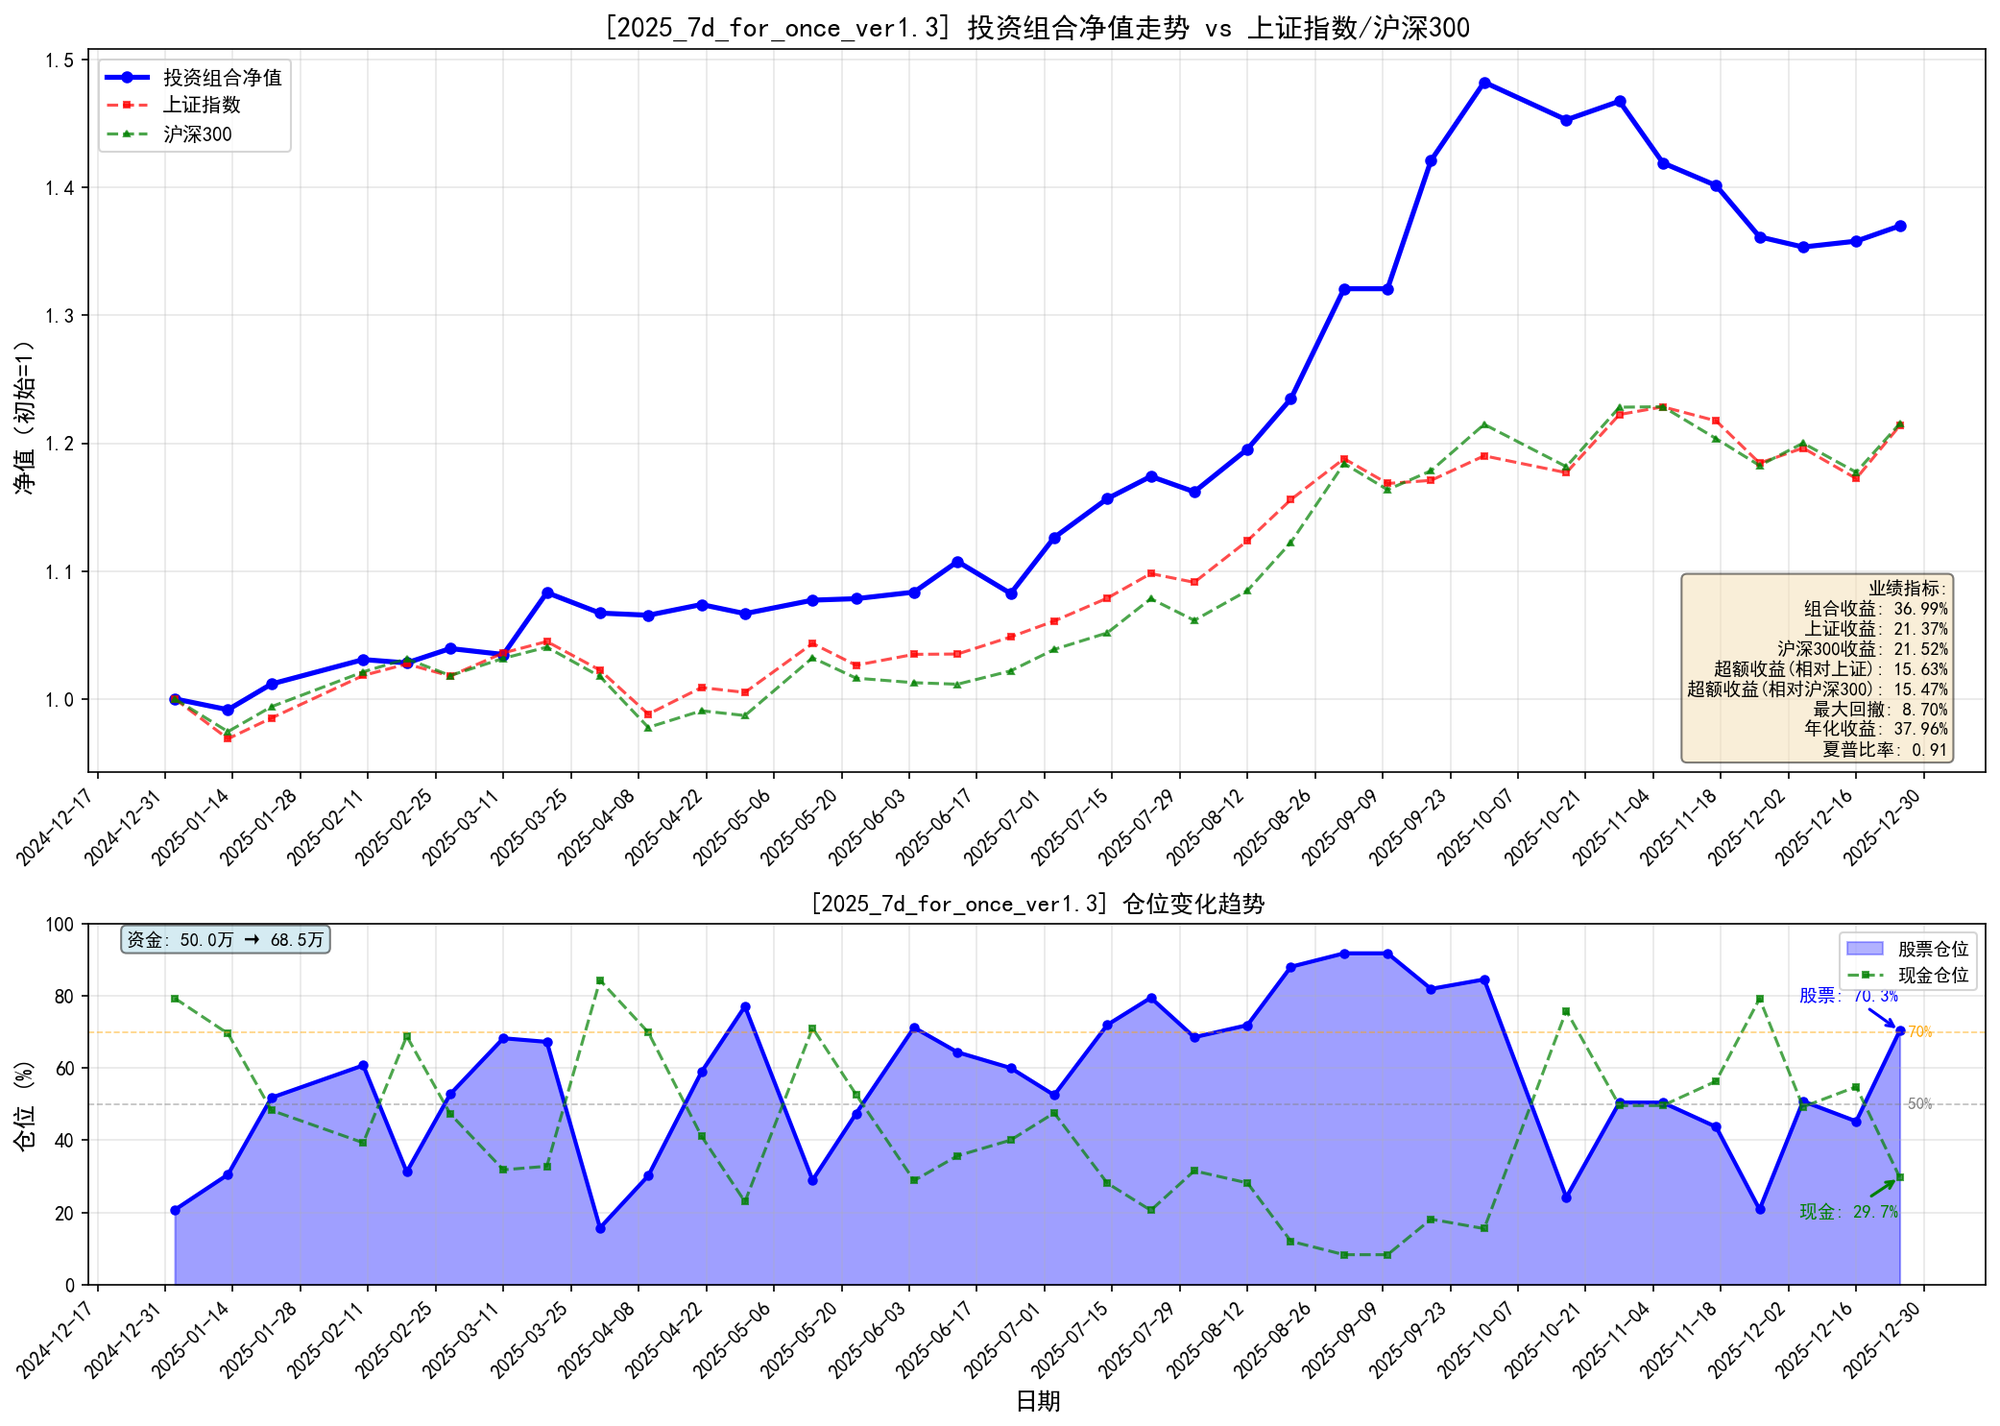
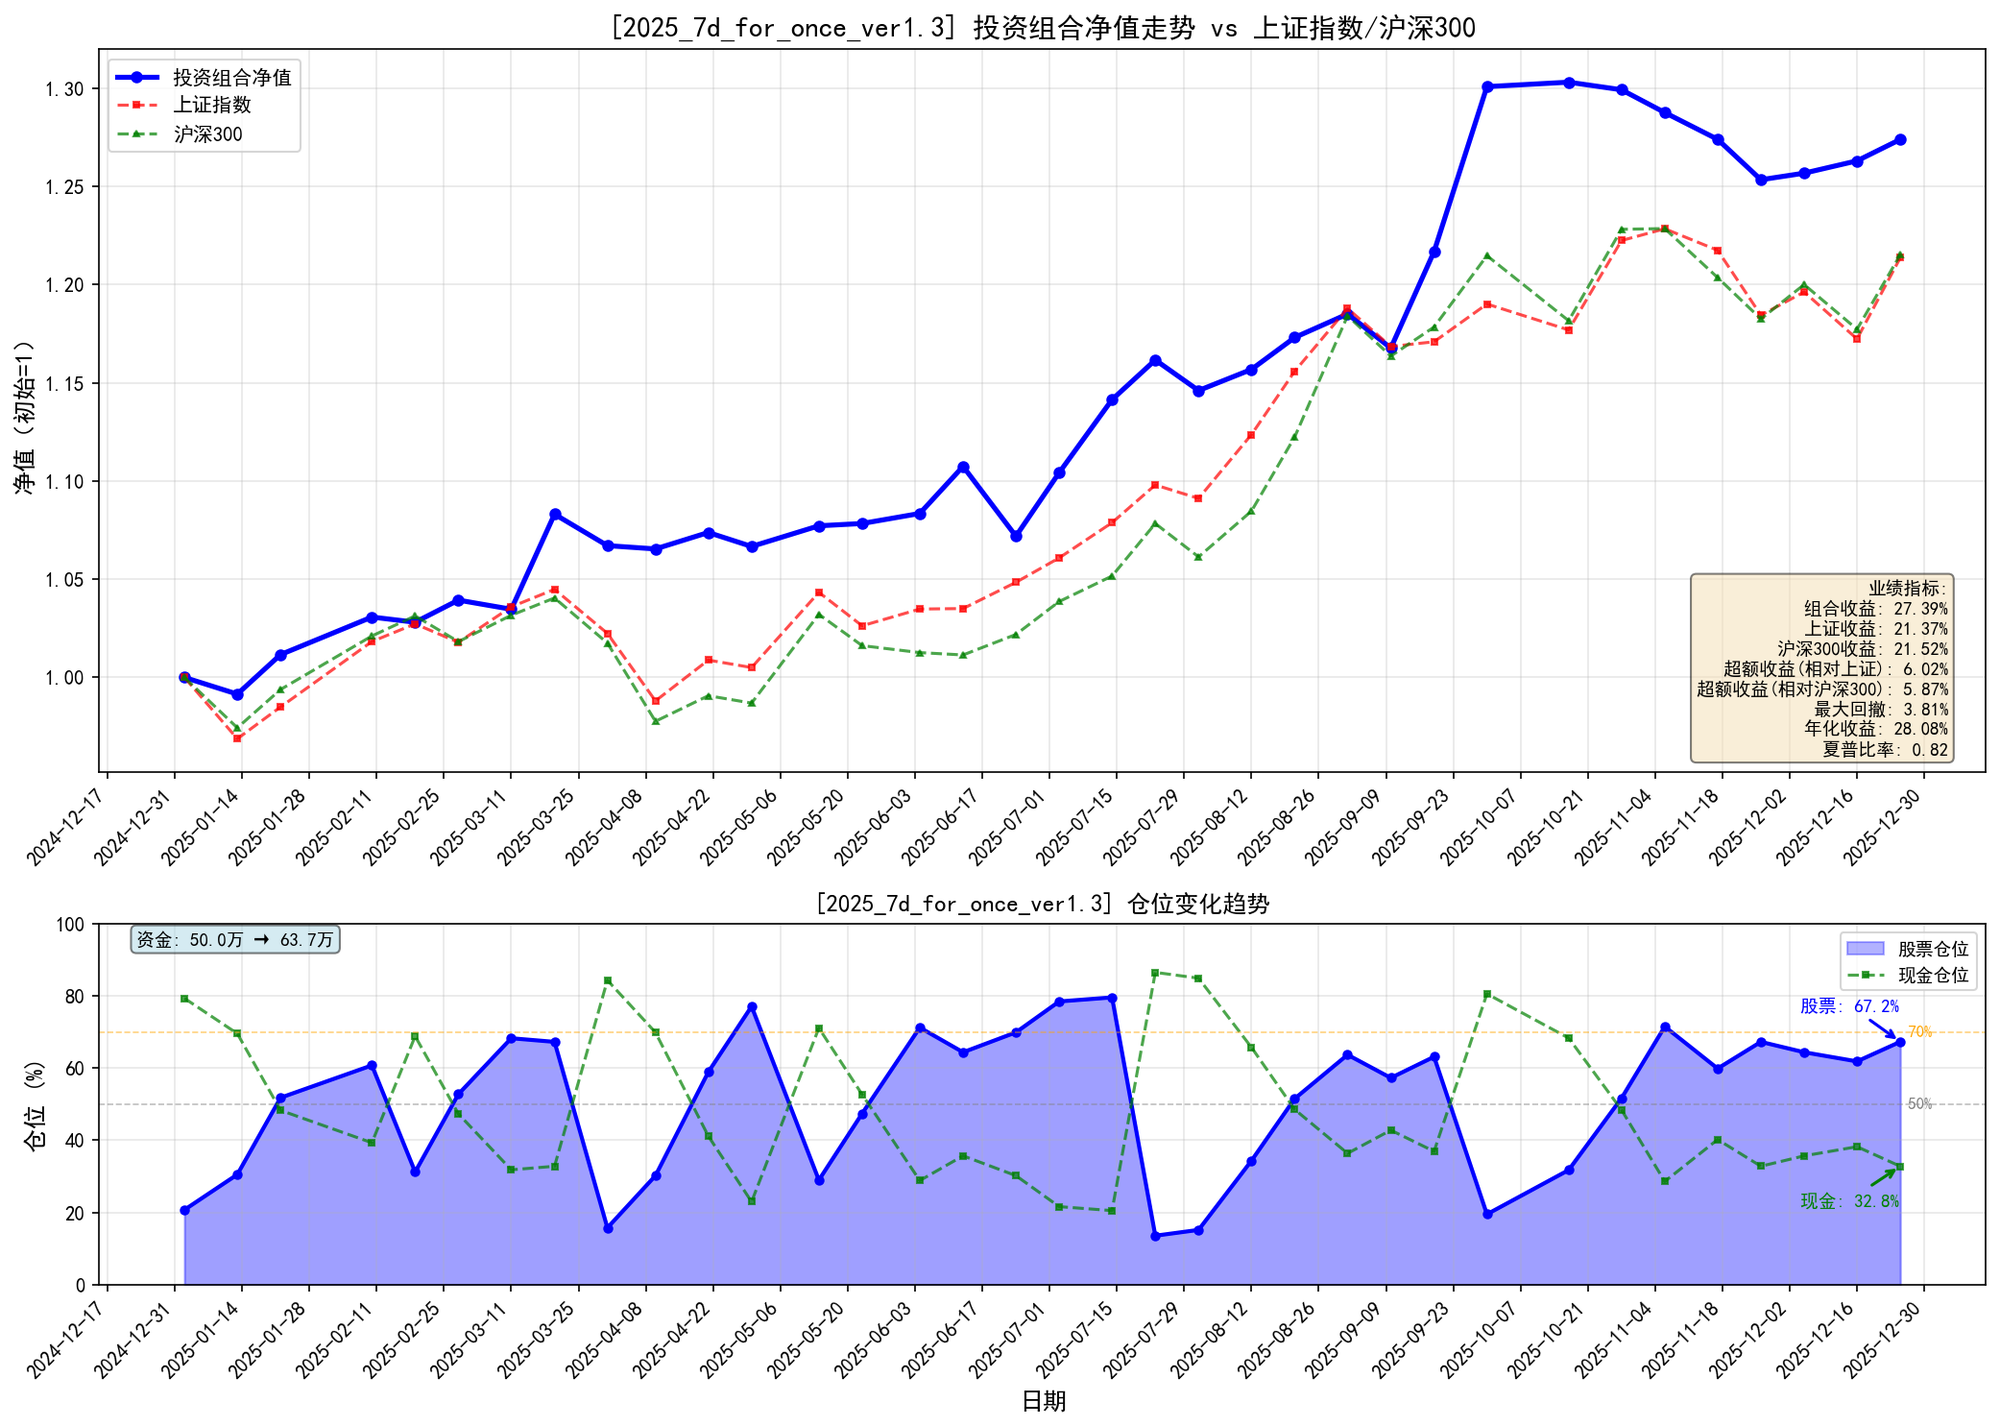
feat: 更新实盘交易脚本和新增测试模块
- 修改 live_trading.py，更新投资决策路径以反映新的时间范围。
- 重构 get_trading_days 函数，支持动态日期范围输入，增强灵活性。
- 更新宏观分析模块，优化新闻获取逻辑，确保历史日期无数据时回退到最新新闻。
- 更新大宗商品配置，添加连续合约信息，提升数据准确性。

diff --git a/agents/analyst/macro_analyst/news_analyst/node.py b/agents/analyst/macro_analyst/news_analyst/node.py
@@ -99,53 +99,64 @@ def _get_news_sections_by_date(
 ) -> tuple:
     """
     按日期获取新闻 sections，全面使用 Finlight API。
-    
-    获取昨日00:00到今日12:00的新闻数据（跨天时间范围）。
-    
+
+    获取指定日期的前一天00:00到当天12:00的新闻数据（跨天时间范围）。
+    如果历史日期没有新闻，则回退到获取最新新闻。
+
     Args:
-        date_str: 日期字符串，格式 YYYYMMDD（用于缓存标识）
+        date_str: 日期字符串，格式 YYYYMMDD（指定日期）
         finlight_fetcher: FinlightDataFetcher 实例
         use_cache: 是否使用本地缓存
-        
+
     Returns:
         (sections, source): sections 列表，source 为 "local"（本地缓存）或 "api"（API 请求）
     """
     try:
-        # 使用 Finlight API 获取时间范围新闻（昨日00:00到今日12:00）
-        result = finlight_fetcher.fetch_yesterday_to_today_news(
-            end_hour=12,  # 今日中午12点
+        # 解析传入的日期，计算前一天
+        current_date = datetime.strptime(date_str, "%Y%m%d")
+        previous_date = current_date - timedelta(days=1)
+
+        # 构建时间范围：前一天00:00 到 当天12:00
+        from_time = previous_date.strftime("%Y-%m-%dT00:00")
+        to_time = current_date.strftime("%Y-%m-%dT12:00")
+
+        logger.info(f"获取 {date_str} 新闻：{from_time} 到 {to_time}")
+
+        # 使用 Finlight API 获取指定时间范围的新闻
+        result = finlight_fetcher.fetch_news_by_time_range(
+            from_=from_time,
+            to=to_time,
             countries=["CN"],
             page_size=50,
             use_cache=use_cache,
         )
-        
+
         # 转换为 sections 格式
         sections = finlight_fetcher.convert_to_sections_format(result)
-        
+
         if sections:
             # 判断数据来源：检查是否有缓存文件
+            # 缓存文件使用当天日期命名（如 news_20260310.json）
             cache_dir = "data/news_finlight"
-            
-            today = datetime.now()
-            yesterday = today - timedelta(days=1)
-            from_date = yesterday.strftime("%Y%m%d")
-            to_date = today.strftime("%Y%m%d")
-            cache_file = f"{cache_dir}/news_{from_date}_{to_date}.json"
-            
+            cache_file = f"{cache_dir}/news_{date_str}.json"
+
             import os
             source = "local" if os.path.exists(cache_file) and use_cache else "api"
-            
-            logger.info(f"获取 {date_str} 新闻成功（昨日00:00到今日12:00），共 {len(sections)} 条 section（来源: {source}）")
+
+            prev_date_str = previous_date.strftime("%Y%m%d")
+            logger.info(f"获取 {date_str} 新闻成功（{prev_date_str}00:00到{date_str}12:00），共 {len(sections)} 条 section（来源: {source}）")
             return (sections, source)
         else:
-            logger.warning(f"获取 {date_str} 新闻为空")
-            return ([], "api")
-            
+            # 历史日期没有新闻，回退到获取最新新闻
+            logger.warning(f"历史日期 {date_str} 无新闻，回退到获取最新新闻")
+            return _get_news_sections_latest(finlight_fetcher, use_cache=use_cache)
+
     except Exception as e:
-        logger.warning(f"获取新闻失败: {e}")
+        logger.warning(f"获取新闻失败: {e}，回退到获取最新新闻")
         import traceback
         logger.debug(traceback.format_exc())
-        return ([], "api")
+        # 出错时回退到获取最新新闻
+        return _get_news_sections_latest(finlight_fetcher, use_cache=use_cache)
 
 
 def _get_news_sections_latest(

diff --git a/live_trading.py b/live_trading.py
@@ -78,7 +78,7 @@ SECTOR_MANAGER_ROOT = Path("data/artifacts/manager/sector_manager")
 STOCK_POOL_MANAGER_ROOT = Path("data/artifacts/manager/stock_pool_manager")
 MACRO_MANAGER_ROOT = Path("data/artifacts/manager/macro_manager")
 STOCK_SCREENER_ROOT = Path("data/artifacts/analyst/stock_analyst/stock_screener")
-PORTFOLIO_DECISION_ROOT = Path("data/artifacts/decision/2025_7d_for_once_ver1.3/portfolio")
+PORTFOLIO_DECISION_ROOT = Path("data/artifacts/decision/202401-202604_7d_for_once_ver1.3/portfolio")
 
 DEFAULT_INITIAL_CAPITAL = 500000.0
 
@@ -241,37 +241,44 @@ def run_portfolio_decision(
     return result
 
 
-def get_trading_days_2025(interval: int = 7, exchange: str = "SSE") -> List[str]:
+def get_trading_days(
+    start_date: str,
+    end_date: str,
+    interval: int = 7,
+    exchange: str = "SSE"
+) -> List[str]:
     """
-    获取2025年的交易日列表，按指定间隔筛选
+    获取指定日期范围的交易日列表，按指定间隔筛选
     
     Args:
+        start_date: 开始日期 (YYYYMMDD)
+        end_date: 结束日期 (YYYYMMDD)
         interval: 运行间隔（交易日数），默认7天
         exchange: 交易所代码，默认SSE（上交所）
     
     Returns:
         筛选后的交易日列表（YYYYMMDD格式）
     """
-    logger.info(f"获取2025年交易日历 (exchange={exchange})...")
+    logger.info(f"获取交易日历 {start_date}-{end_date} (exchange={exchange})...")
     
     fetcher = MarketDataFetcher()
     
-    # 获取2025年全部交易日（is_open=1表示交易日）
+    # 获取指定日期范围的全部交易日（is_open=1表示交易日）
     df = fetcher.fetch_trade_cal(
         exchange=exchange,
-        start_date="20250101",
-        end_date="20251231",
+        start_date=start_date,
+        end_date=end_date,
         is_open="1",
     )
     
     if df.empty:
-        raise RuntimeError("无法获取2025年交易日历")
+        raise RuntimeError(f"无法获取交易日历 {start_date}-{end_date}")
     
     # 提取交易日列表
     all_trading_days = df["cal_date"].tolist()
     all_trading_days.sort()
     
-    logger.info(f"2025年共 {len(all_trading_days)} 个交易日")
+    logger.info(f"共 {len(all_trading_days)} 个交易日")
     
     # 按间隔筛选
     selected_days = all_trading_days[::interval]
@@ -418,17 +425,18 @@ def main():
     
     # 获取交易日列表
     try:
-        all_trading_days = get_trading_days_2025(args.interval, args.exchange)
+        all_trading_days = get_trading_days(
+            start_date=str(args.start_date),
+            end_date=str(args.end_date),
+            interval=args.interval,
+            exchange=args.exchange,
+        )
     except Exception as e:
         logger.error(f"获取交易日历失败: {e}")
         sys.exit(1)
     
-    # 根据起止日期筛选（确保都是字符串类型）
-    start_date = str(args.start_date)
-    end_date = str(args.end_date)
-    # 将交易日列表中的元素都转为字符串
-    all_trading_days = [str(d) for d in all_trading_days]
-    trading_days = [d for d in all_trading_days if start_date <= d <= end_date]
+    # 交易日列表已经是筛选后的结果
+    trading_days = [str(d) for d in all_trading_days]
     
     if not trading_days:
         logger.error(f"指定日期范围内无交易日: {start_date} - {end_date}")

diff --git a/agents/config.py b/agents/config.py
@@ -179,8 +179,9 @@ MACRO_DEFAULT_INDEX_CODES = [
         "description": "深交所创业板最具代表性的100只股票，反映成长型公司整体表现",
     },
 ]
-# 大宗商品：name、code、description、source。source 区分数据源，合约代码需要及时更新
+# 大宗商品：name、code、description、source。source 区分数据源
 # source: "sge" 上海黄金交易所现货 -> fetch_sge_daily；"fut" 期货 -> fetch_fut_daily
+# 连续合约格式：symbol.exchange，交易所代码保持原始标识（INE/DCE/SHF/ZCE）
 MACRO_DEFAULT_COMMODITY_CODES = [
     {
         "name": "黄金",
@@ -189,33 +190,57 @@ MACRO_DEFAULT_COMMODITY_CODES = [
         "source": "sge",
     },
     {
-        "name": "原油",
-        "code": "SC2604.INE",
-        "description": "INE 原油期货主力合约，能源价格、全球供需与地缘局势",
+        "name": "原油连续",
+        "code": "SCL.INE",
+        "description": "INE 原油期货连续合约，能源价格、全球供需与地缘局势",
         "source": "fut",
     },
     {
-        "name": "铜",
-        "code": "CU2604.SHF",
-        "description": "沪铜期货，工业金属代表，经济景气度指标",
+        "name": "生猪连续",
+        "code": "LHL.DCE",
+        "description": "DCE 生猪期货连续合约，农产品价格、消费与通胀指标",
         "source": "fut",
     },
     {
-        "name": "螺纹钢",
-        "code": "RB2604.SHF",
-        "description": "上期所螺纹钢期货，基建、地产、建筑活动指标",
+        "name": "螺纹钢连续",
+        "code": "RBL.SHF",
+        "description": "SHFE 螺纹钢期货连续合约，基建、地产、建筑活动指标",
         "source": "fut",
     },
     {
-        "name": "白银",
-        "code": "AG2606.SHF",
-        "description": "沪银期货，贵金属，与黄金联动、通胀预期",
+        "name": "豆粕连续",
+        "code": "ML.DCE",
+        "description": "DCE 豆粕期货连续合约，饲料原料、农业产业链指标",
         "source": "fut",
     },
     {
-        "name": "铁矿石",
-        "code": "I2605.DCE",
-        "description": "大商所铁矿石期货，钢铁、基建投资需求",
+        "name": "焦炭连续",
+        "code": "JL.DCE",
+        "description": "DCE 焦炭期货连续合约，钢铁上游、工业原材料指标",
+        "source": "fut",
+    },
+    {
+        "name": "烧碱连续",
+        "code": "SHL.ZCE",
+        "description": "CZCE 烧碱期货连续合约，化工基础原料、工业需求指标",
+        "source": "fut",
+    },
+    {
+        "name": "沪铜连续",
+        "code": "CUL.SHF",
+        "description": "SHFE 沪铜期货连续合约，全球工业景气度、制造业晴雨表",
+        "source": "fut",
+    },
+    {
+        "name": "沪铝连续",
+        "code": "ALL.SHF",
+        "description": "SHFE 沪铝期货连续合约，地产竣工、电力、新能源产业链指标",
+        "source": "fut",
+    },
+    {
+        "name": "棉花连续",
+        "code": "CFL.ZCE",
+        "description": "CZCE 棉花期货连续合约，纺织服装产业链、出口订单景气度",
         "source": "fut",
     },
 ]

diff --git a/dataflow/finlight_data.py b/dataflow/finlight_data.py
@@ -136,8 +136,10 @@ class FinlightDataFetcher:
                 params_dict["to"] = to
             
             params = GetArticlesParams(**params_dict)
-            
-            logger.info(f"正在请求 Finlight API: query={query}, page={page}")
+
+            # 记录完整请求参数用于调试
+            log_params = {k: v for k, v in params_dict.items() if v is not None}
+            logger.info(f"正在请求 Finlight API: {log_params}")
             
             response = client.articles.fetch_articles(params=params)
             
@@ -180,30 +182,29 @@ class FinlightDataFetcher:
         page_size: int = 50,
     ) -> str:
         """根据查询参数生成缓存文件名
-        
+
         缓存 key 格式: news_{date}.json
+        对于跨天时间范围，使用结束日期（当天）作为文件名。
         """
-        # 优先使用 from/to 时间范围作为日期标识
+        # 优先使用 to/end_date 作为日期标识（当天）
         date_info = ""
-        if from_ and to:
-            # 从 from_ 提取日期部分
-            from_date = from_.split("T")[0].replace("-", "")
-            to_date = to.split("T")[0].replace("-", "")
-            if from_date == to_date:
-                date_info = from_date
-            else:
-                date_info = f"{from_date}_{to_date}"
-        elif start_date and end_date and start_date == end_date:
-            # 单日查询
-            date_info = start_date.replace("-", "")
-        elif start_date or end_date:
-            date_info = f"{start_date or 'na'}_{end_date or 'na'}"
+        if to:
+            # 使用结束时间的日期部分（当天）
+            date_info = to.split("T")[0].replace("-", "")
         elif from_:
+            # 只有 from_ 时，使用 from_ 的日期
             date_info = from_.split("T")[0].replace("-", "")
+        elif start_date and end_date:
+            # 使用 end_date 作为日期标识
+            date_info = end_date.replace("-", "")
+        elif end_date:
+            date_info = end_date.replace("-", "")
+        elif start_date:
+            date_info = start_date.replace("-", "")
         else:
             # 无日期信息，使用今日日期
             date_info = datetime.now().strftime("%Y%m%d")
-        
+
         return f"news_{date_info}"
     
     def _load_from_cache(self, cache_key: str, cache_dir: str) -> Optional[Dict[str, Any]]:
@@ -396,9 +397,9 @@ class FinlightDataFetcher:
         """
         if countries is None:
             countries = ["CN"]
-        
+
         return self.fetch_articles(
-            query=f"country:{','.join(countries)}" if countries else None,
+            query=f"country:{','.join(countries)}",
             countries=countries,
             categories=categories,
             from_=from_,

diff --git a/dataflow/news_sentiment.py b/dataflow/news_sentiment.py
@@ -441,18 +441,18 @@ class NewsSentimentFetcher:
         use_finlight_cache: bool = True,
     ) -> List[Dict[str, str]]:
         """获取组合新闻 sections（东方财富 + Finlight，优先使用本地缓存）
-        
+
         Args:
             date_str: 日期字符串，格式 YYYYMMDD
             use_finlight: 是否同时获取 Finlight 新闻
             finlight_categories: Finlight 新闻分类筛选
             use_finlight_cache: 是否优先使用 Finlight 本地缓存，默认 True
-            
+
         Returns:
             List[Dict]: 合并后的 sections 列表
         """
         sections = []
-        
+
         # 1. 获取东方财富新闻（原有逻辑）
         try:
             eastmoney_data = self.get_news_by_date(date_str)
@@ -461,7 +461,7 @@ class NewsSentimentFetcher:
                 logger.info(f"东方财富新闻: {len(eastmoney_data.get('sections', []))} 条")
         except Exception as e:
             logger.warning(f"获取东方财富新闻失败: {e}")
-        
+
         # 2. 获取 Finlight 新闻（新增，优先使用缓存）
         if use_finlight:
             try:
@@ -476,7 +476,7 @@ class NewsSentimentFetcher:
                     logger.info(f"Finlight 新闻: {len(finlight_sections)} 条")
             except Exception as e:
                 logger.warning(f"获取 Finlight 新闻失败: {e}")
-        
+
         logger.info(f"组合新闻总计: {len(sections)} 条")
         return sections
 

diff --git a/agents/manager/macro_manager/graph.py b/agents/manager/macro_manager/graph.py
@@ -49,14 +49,19 @@ def create_macro_manager_graph(
     from agents.analyst.macro_analyst.commodity_analyst.graph import create_commodity_analyst_graph
     from agents.analyst.macro_analyst.macro_economist.graph import create_macro_economist_graph
 
-    if news_fetcher is None:
+    # 获取 FinlightDataFetcher 供 news_analyst 使用
+    finlight_fetcher = None
+    if news_fetcher is not None:
+        # 从 NewsSentimentFetcher 中提取底层的 FinlightDataFetcher
+        finlight_fetcher = getattr(news_fetcher, "finlight_fetcher", None)
+    if finlight_fetcher is None:
         try:
-            from dataflow.news_sentiment import NewsSentimentFetcher
-            news_fetcher = NewsSentimentFetcher()
+            from dataflow.finlight_data import FinlightDataFetcher
+            finlight_fetcher = FinlightDataFetcher()
         except Exception:
-            news_fetcher = None
+            finlight_fetcher = None
 
-    news_graph = create_news_graph(llm, news_fetcher)
+    news_graph = create_news_graph(llm, finlight_fetcher)
     market_sentiment_graph = create_market_sentiment_analyst_graph(llm=llm)
     liquidity_graph = create_liquidity_analyst_graph(llm=llm)
     commodity_graph = create_commodity_analyst_graph(llm=llm)
